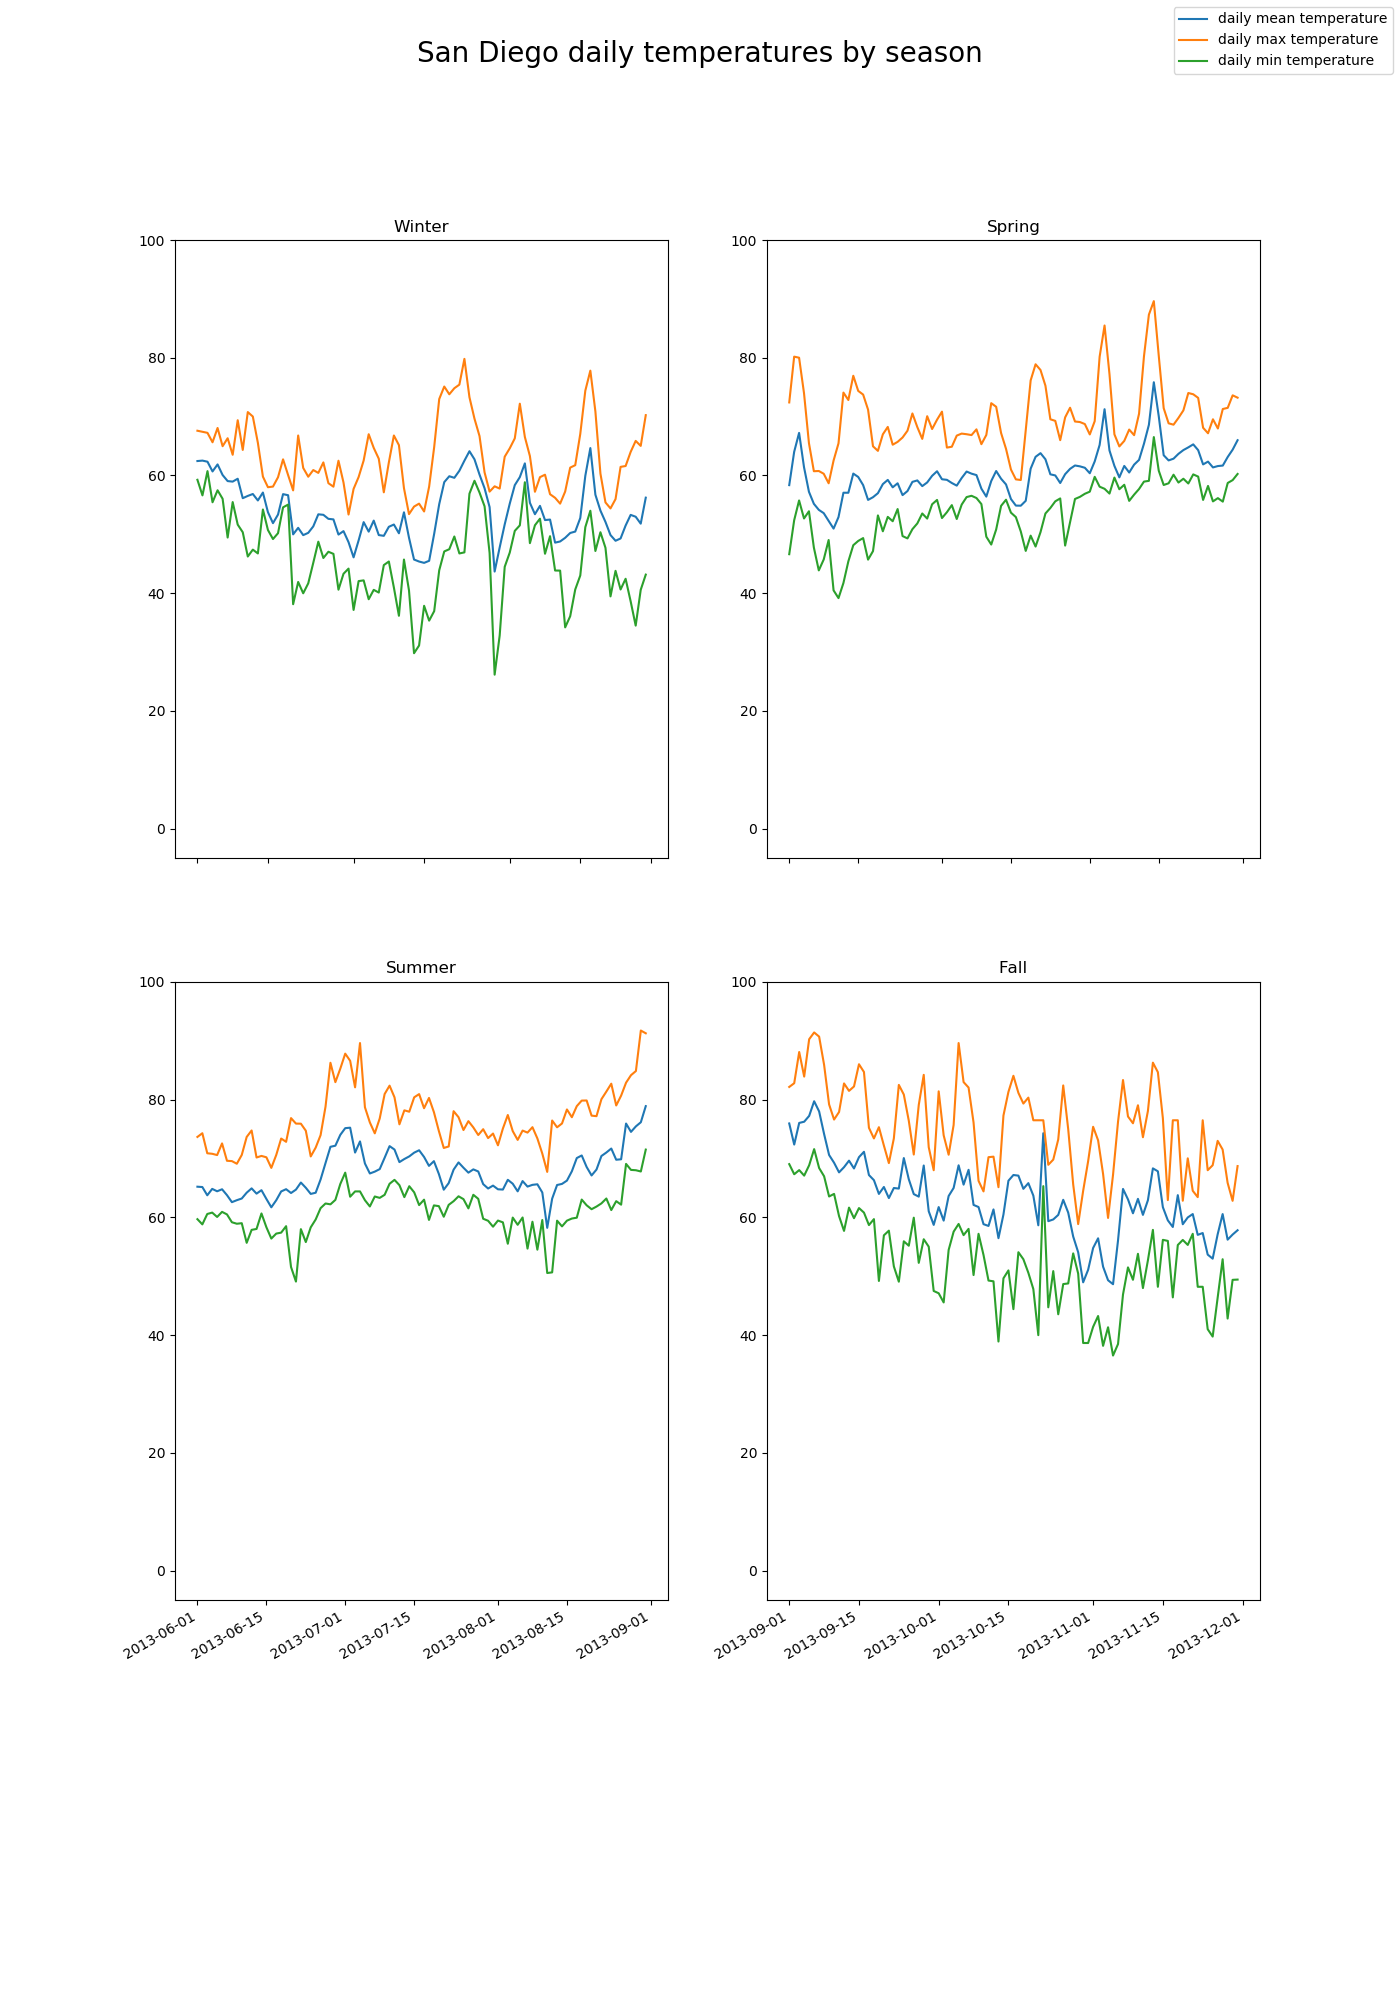
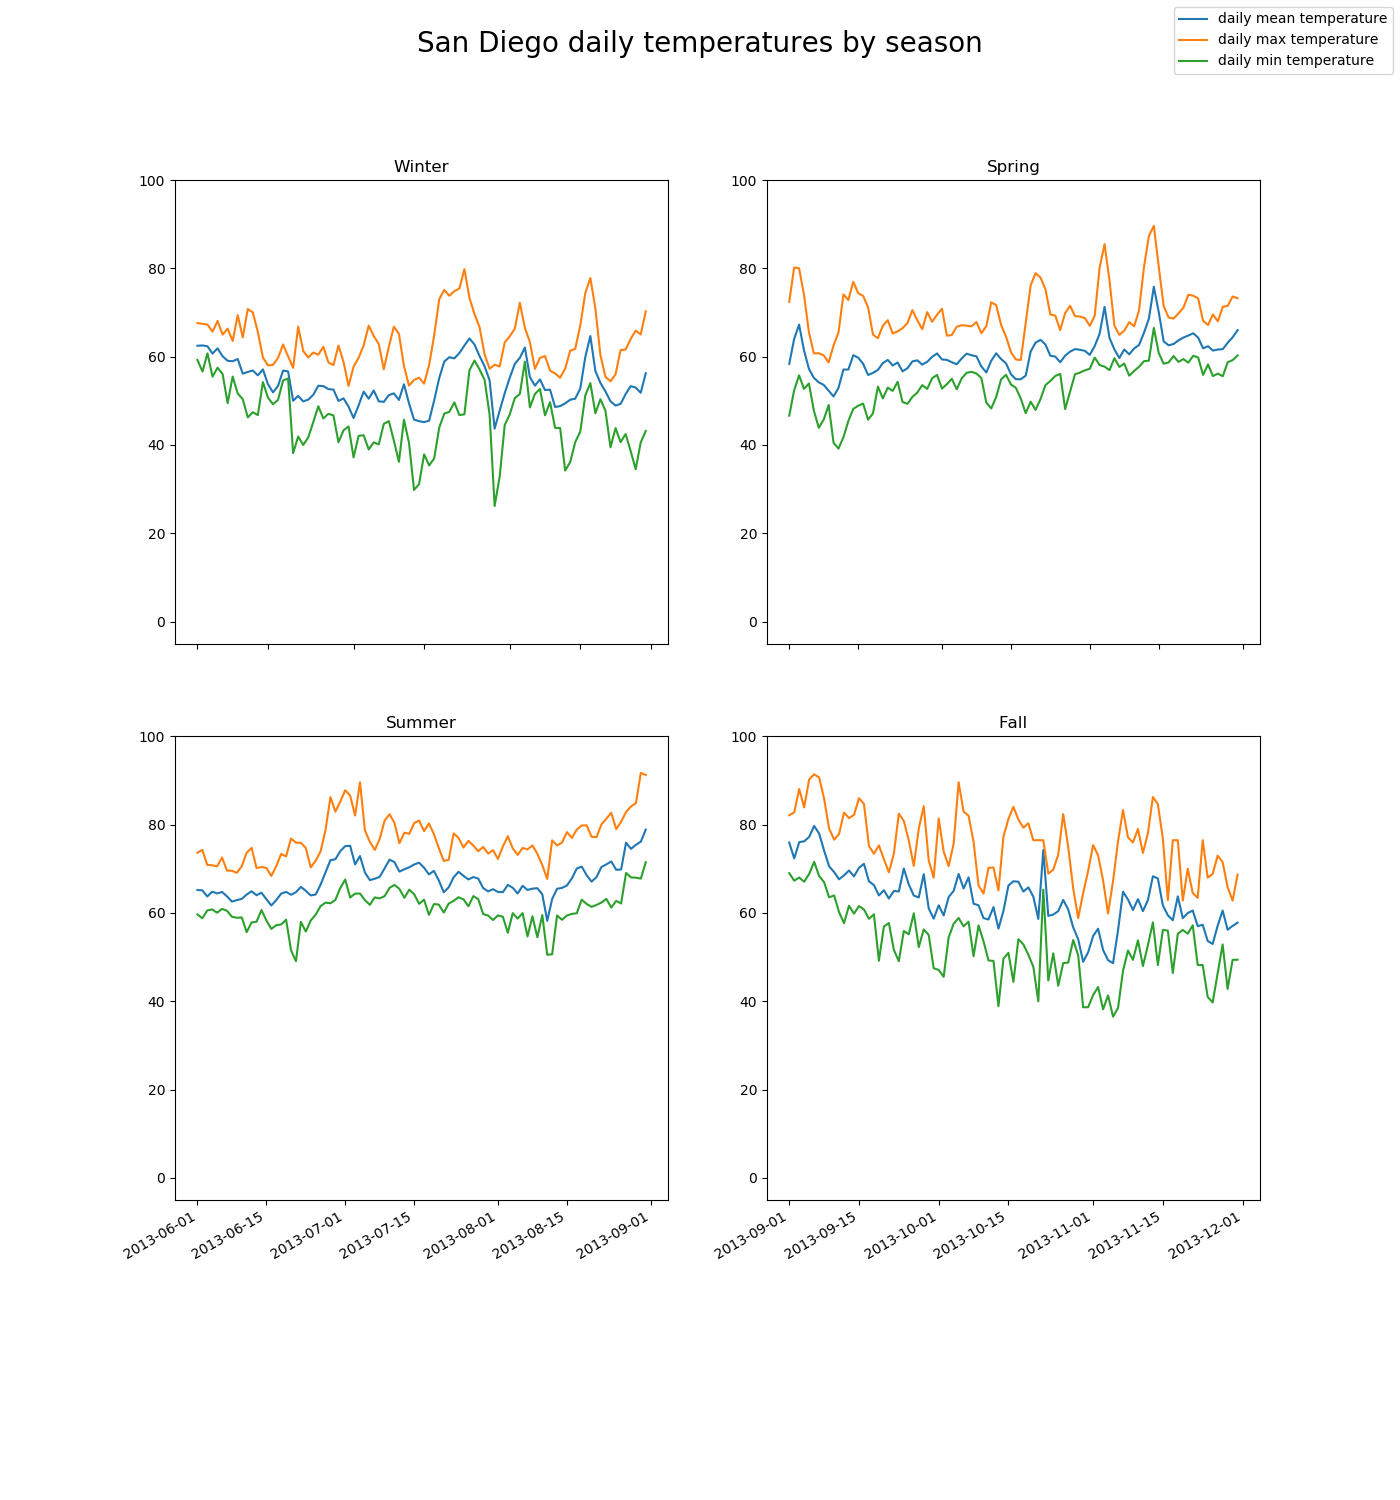
howabutnow?

diff --git a/src/weather.py b/src/weather.py
@@ -175,7 +175,7 @@ if __name__ == "__main__":
  
     #calc and plot
     #daily mean, max, min 
-    plt.figure(figsize = (13,10))
+    plt.figure(figsize = (13,9))
     plt.plot(df_temp_2012['datetime'],df_temp_2012['Denver'],color = "tab:red",alpha =.25)
     plt.title("Denver daily temperatures", fontsize=20)
     
@@ -195,7 +195,7 @@ if __name__ == "__main__":
     #plt.show()
 
 
-    plt.figure(figsize = (13,10))
+    plt.figure(figsize = (13,9))
     plt.plot(df_temp_2012_sd['datetime'],df_temp_2012_sd['San Diego'],color = "tab:red",alpha =.25)
     plt.title("San Diego daily temperatures", fontsize=20)
     df_temp_2012_daily_mean_sd = df_temp_2012_sd.groupby([df_temp_2012_sd['datetime'].dt.date])['San Diego'].mean()
@@ -254,7 +254,7 @@ if __name__ == "__main__":
     df_fall_temp_min = df_temp_2012.groupby([df_fall_temp['datetime'].dt.date])['Denver'].min()
    
     
-    fig, axes =plt.subplots(2,2,figsize = (14,20))
+    fig, axes =plt.subplots(2,2,figsize = (14,15))
     axes[0,0].plot(df_winter_temp_mean,label="daily mean temperature")
     axes[0,0].plot(df_winter_temp_max,label="daily max temperature")
     axes[0,0].plot(df_winter_temp_min,label="daily min temperature")
@@ -300,7 +300,7 @@ if __name__ == "__main__":
     df_fall_temp_min_sd = df_temp_2012_sd.groupby([df_fall_temp_sd['datetime'].dt.date])['San Diego'].min()
    
    
-    fig, axes =plt.subplots(2,2,figsize = (14,20))
+    fig, axes =plt.subplots(2,2,figsize = (14,15))
     axes[0,0].plot(df_winter_temp_mean_sd,label="daily mean temperature")
     axes[0,0].plot(df_winter_temp_max_sd,label="daily max temperature")
     axes[0,0].plot(df_winter_temp_min_sd,label="daily min temperature")
